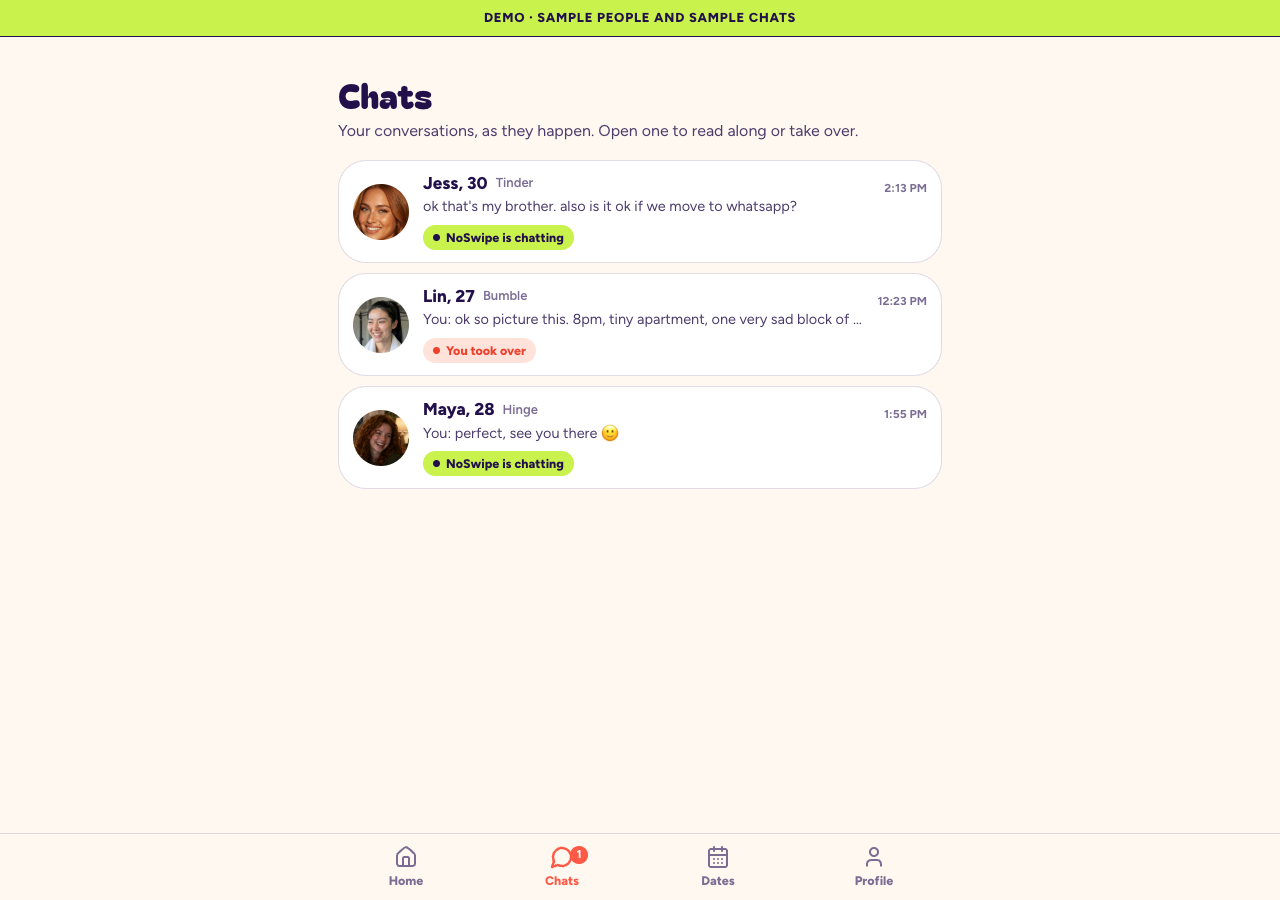
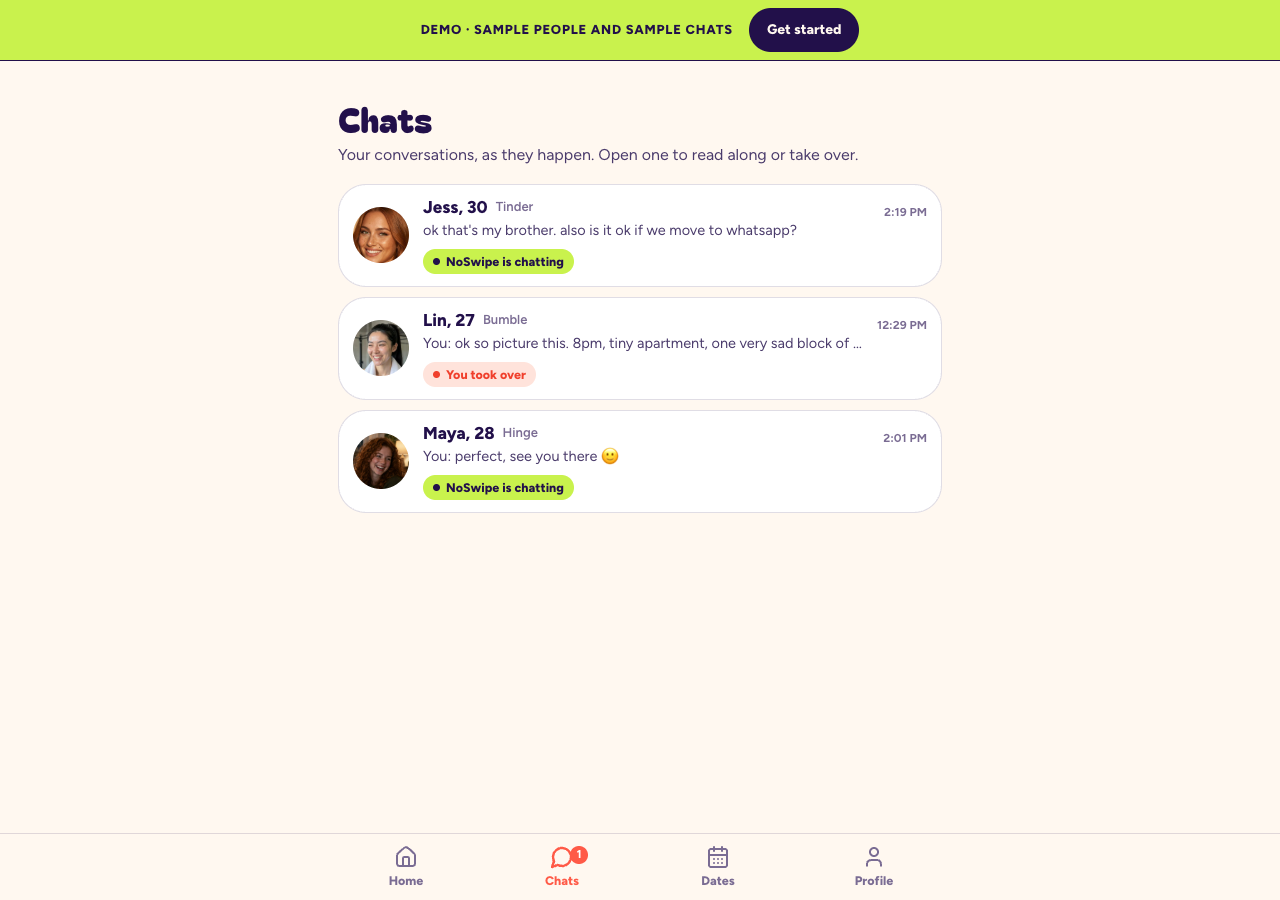
Connect demo visitors to tracked signup entry

diff --git a/src/app/demo/layout.tsx b/src/app/demo/layout.tsx
@@ -1,6 +1,8 @@
 import type { Metadata } from "next";
 import type { ReactNode } from "react";
 import { AppShell } from "@/components/app/shell";
+import { CtaLink } from "@/components/cta-link";
+import { FunnelTracker } from "@/components/funnel-tracker";
 
 export const metadata: Metadata = {
   title: "Demo",
@@ -9,7 +11,17 @@ export const metadata: Metadata = {
 };
 export const revalidate = 3600;
 
-// The demo is the real app frame with sample data. The slim banner is the only addition.
+// The sample banner keeps the demo explicit and offers the real signup path.
 export default function DemoLayout({ children }: { children: ReactNode }) {
-  return <AppShell base="/demo" needsYou={1} banner={<div className="app-banner" role="note">Demo · sample people and sample chats</div>}>{children}</AppShell>;
+  return (
+    <>
+      <FunnelTracker event="page_view" />
+      <AppShell base="/demo" needsYou={1} banner={
+        <div className="app-banner app-demo-banner" role="note">
+          <span>Demo · sample people and sample chats</span>
+          <CtaLink location="demo_banner" className="app-demo-start">Get started</CtaLink>
+        </div>
+      }>{children}</AppShell>
+    </>
+  );
 }

diff --git a/src/app/app.css b/src/app/app.css
@@ -141,3 +141,7 @@ a.app-row:hover{border-color:var(--grape-3)}a.app-row:active{transform:scale(.99
 .app-kv dt{color:var(--grape-3);font-weight:700}.app-kv dd{margin:0;font-weight:700;text-align:right}
 @media(min-width:760px){.app-main{padding-top:36px}.app-stats{grid-template-columns:repeat(3,1fr)}}
 @media(prefers-reduced-motion:reduce){.app-btn,.ob-bar span,.app-switch,.app-switch::after{transition:none}}
+
+/* A clear route out of the sample app and into the real signup flow. */
+.app-demo-banner{display:flex;align-items:center;justify-content:center;flex-wrap:wrap;gap:8px 16px}
+.app-demo-start{display:inline-flex;align-items:center;justify-content:center;min-height:44px;padding:8px 18px;border-radius:var(--r-pill);background:var(--grape);color:var(--paper);font-size:14px;letter-spacing:0;text-transform:none}

diff --git a/src/app/login/page.tsx b/src/app/login/page.tsx
@@ -1,6 +1,7 @@
 import type { Metadata } from "next";
 import { redirect } from "next/navigation";
 import { BrandMark } from "@/components/brand";
+import { FunnelTracker } from "@/components/funnel-tracker";
 import { getAppUser } from "@/lib/app/session";
 import { LoginForm } from "./login-form";
 
@@ -11,6 +12,7 @@ export default async function LoginPage({ searchParams }: { searchParams: Promis
   const { error } = await searchParams;
   return (
     <main className="app-auth">
+      <FunnelTracker event="page_view" />
       <div className="app-auth-card">
         <BrandMark className="app-auth-mark" />
         <h1 className="app-display">Welcome to NoSwipe.</h1>

diff --git a/docs/specs/004-demo-acquisition-loop.md b/docs/specs/004-demo-acquisition-loop.md
@@ -1,0 +1,13 @@
+# Let visitors preview NoSwipe and continue to signup
+
+**Problem.** The public sample app exists, but the sign-in page offers no preview route. The demo layout has only a sample-data banner, with no signup CTA or page-view tracker. A campaign pointing at /demo can therefore lose both the visitor's next step and entry attribution. Read-only production snapshot before QA has zero non-test signups; this change does not promise conversion improvement.
+
+**Not doing.** No authentication, onboarding implementation, checkout, account operation, production schema/data migration, landing rewrite, payment change, outreach or publication.
+
+**Options.** Keep email-first access; link to the demo alone; or complete the small demo acquisition loop. Choose the loop so the existing sample app can support a real campaign without inventing customer outcomes.
+
+**Approach.** Add the existing ghost-styled demo anchor to login. Reuse FunnelTracker on sign-in and the demo layout and CtaLink in its persistent banner to reach /onboarding; retain explicit sample labeling. Add scoped banner CSS for touch-sized responsive navigation. Existing attribution, internal-probe exclusion and signup authorization remain the implementation authority.
+
+**Risk.** Mobile banner overflow, obscured sample labeling, lost first-touch UTM/ref or navigation counted as signup success. Keep the banner legible, reuse existing trackers, and distinguish demo views/CTA interest from actual confirmed signups.
+
+**Verification.** Typecheck/lint/production build. Fresh desktop/mobile browser: login form still visible; demo anchor >=44px; navigate to demo/chats then Get started to signed-out login; sample labeling visible and no overflow. Mock /api/event responses, inspect one demo page_view and get_started with preserved campaign/ref and the same session; never submit email or make a payment. Capture real production BEFORE and local AFTER frames, independent review, CI, then verify the shipped route in a disposable internal-marked browser.
